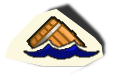
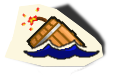
update barrel

Changed region(s): [[0.1053, 0.0526, 0.5, 0.5]]

diff --git a/www/assets/images/test_textures.html b/www/assets/images/test_textures.html
@@ -15,6 +15,7 @@
     <img src="island.png">
     <img src="rom.png">
     <img src="barrel.png">
+    <img src="barrel2.png">
     <img src="kraken.png">
     <img src="collision.png">
 
